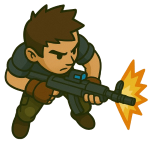
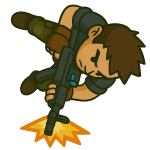
rotation logic fixed and working

diff --git a/client/src/hooks/useGameLogic.ts b/client/src/hooks/useGameLogic.ts
@@ -90,16 +90,33 @@ const useGameLogic = () => {
         return map;
     }, [gameState]);
 
-    const gettingShotPosition = gameState?.allPlayers.find(
-        (p) => p.playerId === gettingShotId
-    )?.position;
+    const gettingShotPosition = useMemo(
+        () =>
+            gameState?.allPlayers.find((p) => p.playerId === gettingShotId)
+                ?.position,
+        [gameState, gettingShotId]
+    );
+    const currentPlayerPosition = useMemo(
+        () =>
+            gameState?.allPlayers.find((p) => p.playerId === prevId)?.position,
+        [gameState, prevId]
+    );
 
-    const gettingShotRotation =
-        gettingShotPosition === 1
-            ? "rotate-90"
-            : gettingShotPosition === 2
-            ? "rotate-45"
-            : "";
+    let gettingShotRotation = "";
+    if (currentPlayerPosition != undefined) {
+        if (gettingShotPosition === (currentPlayerPosition + 1) % 4) {
+            // console.log("shooting right");
+            gettingShotRotation = "rotate-45";
+        } else if (gettingShotPosition === (currentPlayerPosition + 2) % 4) {
+            // console.log("shooting top");
+            gettingShotRotation = "";
+        } else if (gettingShotPosition === (currentPlayerPosition + 3) % 4) {
+            // console.log("shooting left");
+            gettingShotRotation = "-rotate-45";
+        } else {
+            console.log("shoot himself");
+        }
+    }
 
     return {
         myPlayer,

diff --git a/client/src/components/player.tsx b/client/src/components/player.tsx
@@ -83,6 +83,7 @@ const Player = ({
                     )}
                 ></img>
             </div>
+            <h2 className="text-2xl font-black">{player.position}</h2>
             {/* {id == player.playerId ? "my" : "diff"} */}
             <div className="flex gap-2">
                 {player.abilities.map((ability, i) => (

diff --git a/server/src/gamelogic/gameState.ts b/server/src/gamelogic/gameState.ts
@@ -92,6 +92,8 @@ export class GameState implements Serializable {
     }
     public rotateTable() {
         const inc = this.isSkipActive ? 2 : 1;
+        this.isSkipActive = false;
+
         this.currentActivePlayerIndex =
             (this.currentActivePlayerIndex + inc) % this.allPlayerIdArr.length;
 
